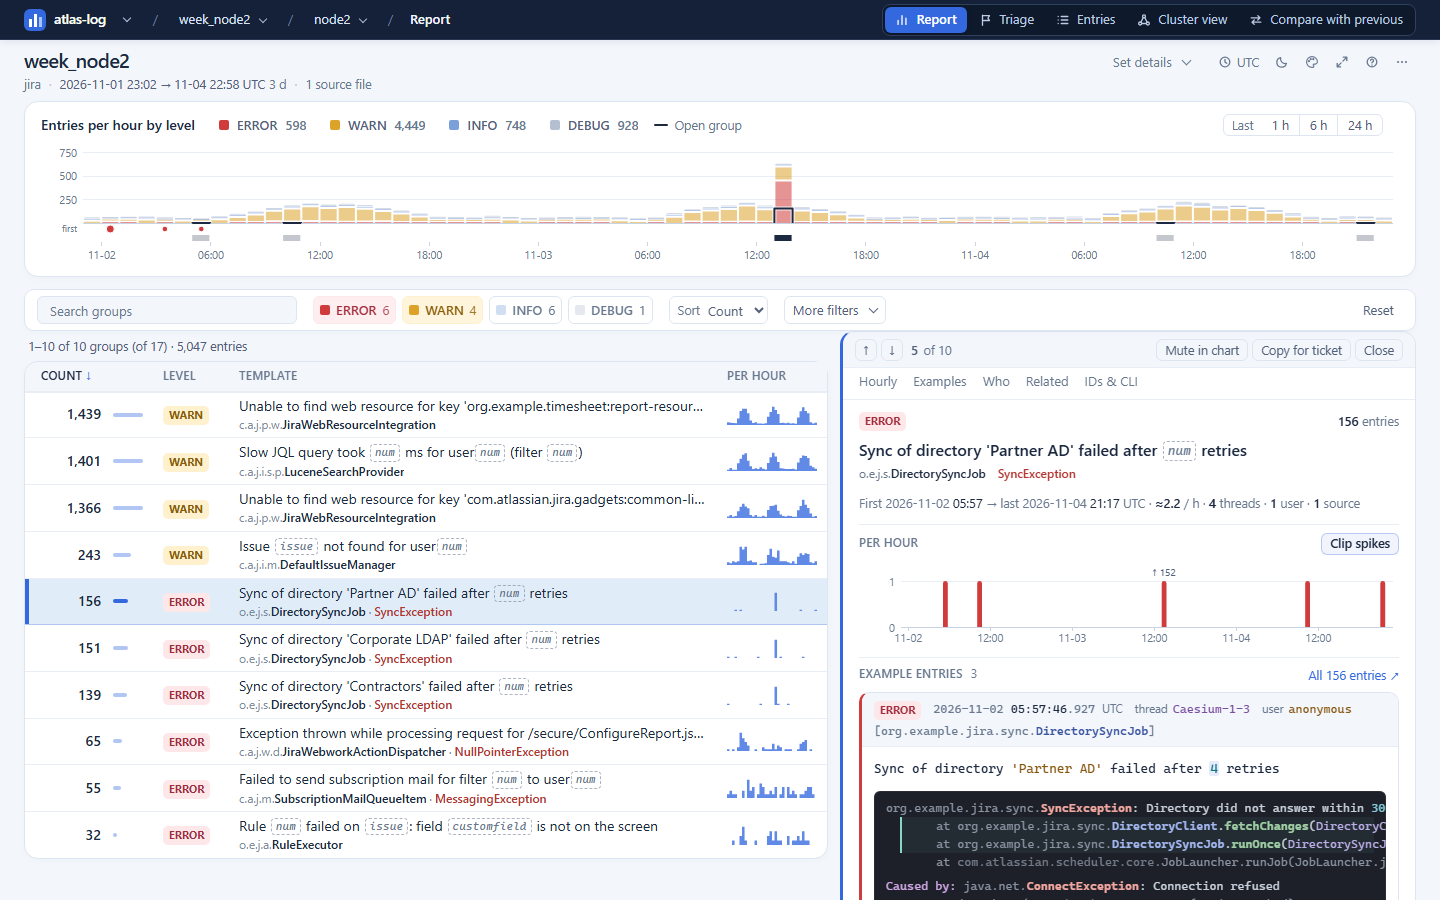
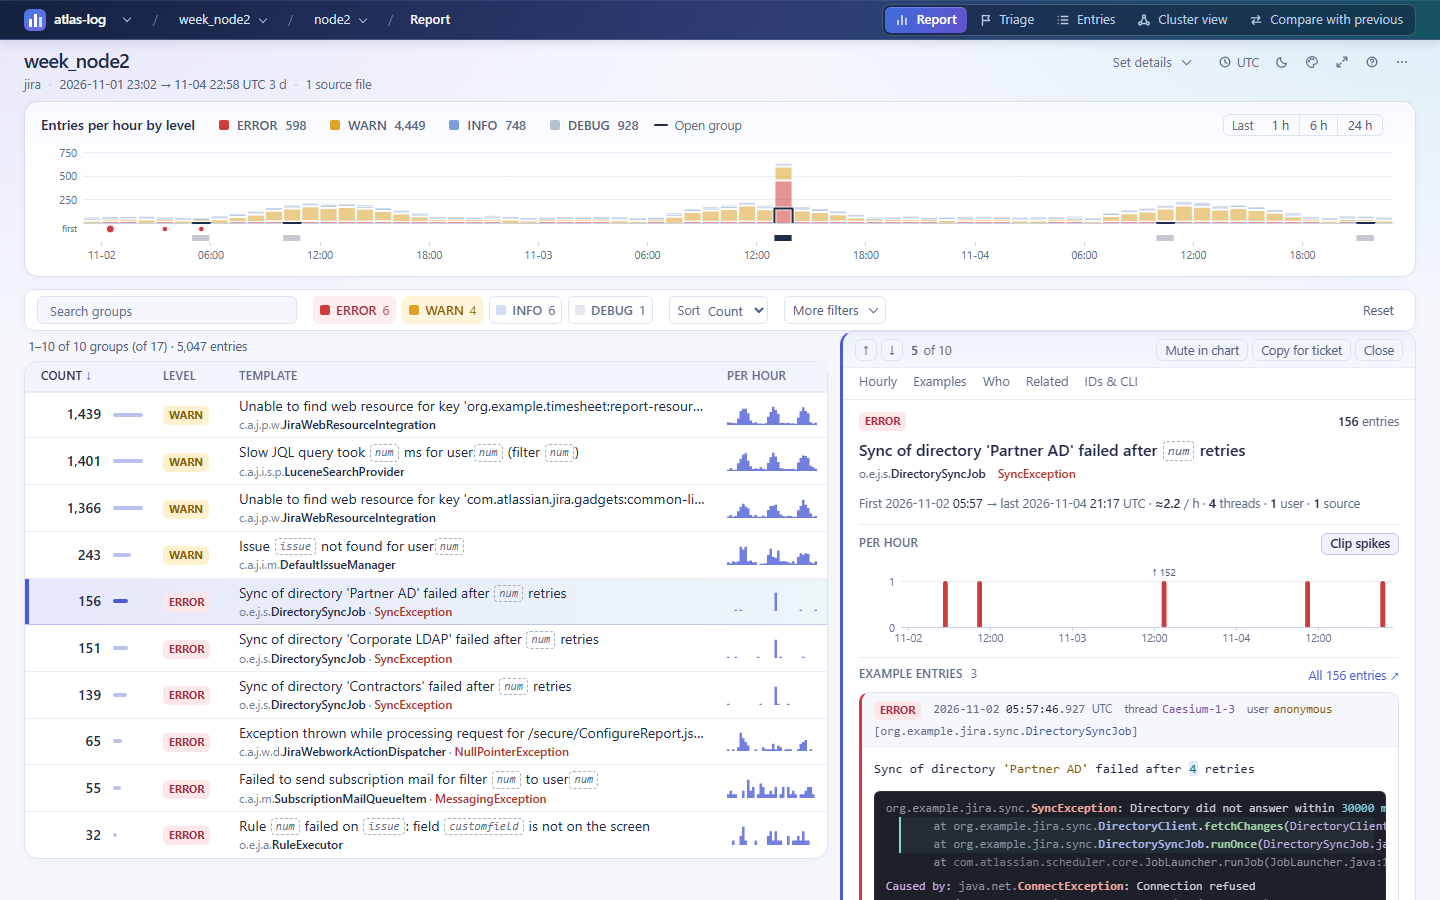
Refresh README screenshots with Aurora skin

diff --git a/README.md b/README.md
@@ -25,7 +25,7 @@ compare and triage, in the browser, the terminal or from an agent.**
   <img src="docs/img/hero-light.png" alt="The report of one node: entries per hour by level with an error spike, level filters and the table of groups" width="100%">
 </picture>
 
-<sub>All screenshots show synthetic demo logs (<code>scripts/demo_logs.py</code>), never real data.</sub>
+<sub>All screenshots use the Aurora skin and synthetic demo logs (<code>scripts/demo_logs.py</code>), never real data.</sub>
 
 </div>
 
